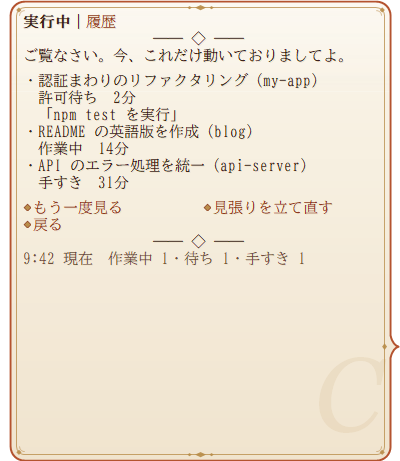
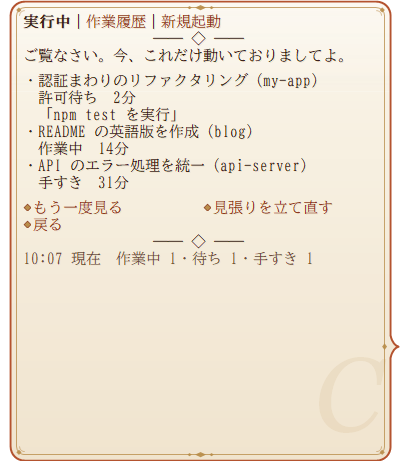
メニューの位置を固定し、「Claude Code は？」に新規起動の頁を足す
- メインメニューは「さっきの話は？」が無いとき右の段を空欄にして、ほかの項目の位置を動かさない
  （MENU.Grid に '-' で空欄を渡せるようにした）
- Claude Code まわりを「Claude Code は？」「功績録」「お茶とタイマー」の順に並べる
- 「Claude Code は？」の見出しを「実行中｜作業履歴｜新規起動」にする
- 新規起動の頁を足す。履歴の作業フォルダを新しい順に 6 件ずつ並べ、選ぶとそのフォルダを
  cwd にして claude を新しく起動する（EXECUTE の第 2 引数は空、第 3 引数が作業フォルダ）。
  選択肢には sessionId を載せて、開くときに作業フォルダを引き直す
- 作業履歴と新規起動の頁送りは、前後が無いときも空欄で場所を取り、戻るの位置を動かさない
- 紹介ページの文面と画像（実行中、作業履歴、新規起動、メニュー）を撮り直し、
  GHOST.md と design-system.md を直す

🌹 Polished by Claudia

Changed region(s): [[0.06, 0.5466, 0.78, 0.577], [0.21, 0.0304, 0.57, 0.0607]]

diff --git a/site/index.html b/site/index.html
@@ -326,15 +326,17 @@ footer { text-align: center; padding: 48px 16px 64px; font-size: 13px; color: va
 
     <div class="feature">
       <div class="text">
-        <h3>実行中のセッションと、続きの再開</h3>
+        <h3>実行中のセッションと、再開、新規起動</h3>
         <p>メニューの「Claude Code は？」を開けば、今動いているセッションを一覧にしてお見せしますわ。返事待ちを先に並べて、何を待たれているかまで添えますの。</p>
-        <p>「履歴」の頁には、これまでのセッションが題名と日付つきで並びますわ。選べば、そのセッションの作業フォルダで <code>claude -r</code> を開いて、続きから再開できましてよ。</p>
+        <p>「作業履歴」の頁には、これまでのセッションが題名と日付つきで並びますわ。選べば、そのセッションの作業フォルダで <code>claude -r</code> を開いて、続きから再開できましてよ。</p>
+        <p>「新規起動」の頁には、これまでに Claude Code を使った作業フォルダが、新しい順に並びますわ。選べば、そのフォルダを作業場所にして <code>claude</code> を新しく始められますの。</p>
         <p>最後のメッセージから 1 時間以内なら「温」、過ぎていれば「冷」の印をつけますわ。Claude Code のプロンプトキャッシュは 1 時間ですので、「冷」の再開は、会話を読み直すぶん少し重くなりますの。</p>
-        <p class="note">開けるのは、Claude Code が会話の記録を残しているセッション（既定でおよそ 30 日分）だけ。題名は記録の見出しから拾い、依頼の本文は読みませんわ。今動いているものには印をつけて、二重に開かないようにしてありますの。Claude Code を動かしていなくても、履歴は開けますわ。</p>
+        <p class="note">開けるのは、Claude Code が会話の記録を残しているセッション（既定でおよそ 30 日分）だけ。題名は記録の見出しから拾い、依頼の本文は読みませんわ。今動いているものには印をつけて、二重に開かないようにしてありますの。新規起動に並ぶのは、依頼の履歴（およそ 60 日分）に残るフォルダのうち、今もあるものだけ。Claude Code を動かしていなくても、作業履歴と新規起動は開けますわ。</p>
       </div>
       <div class="stage cols">
-        <div><img src="img/cc-run-0.png" width="400" height="461" alt="実行中の頁。実行中と履歴の見出し。許可待ちのセッションには待たれている中身も添えて、作業中、手すきのセッションが並ぶ。最下段に作業中・待ち・手すきの数"></div>
-        <div><img src="img/cc-hist-0.png" width="400" height="461" alt="履歴の頁。セッションの題名と最後のメッセージの日時、キャッシュが温かいか冷えたかの印、作業フォルダが 6 件並び、動いているセッションには（実行中）と添えられている。前後の頁へ送る選択肢と、履歴の件数"></div>
+        <div><img src="img/cc-run-0.png" width="400" height="461" alt="実行中の頁。実行中、作業履歴、新規起動の見出し。許可待ちのセッションには待たれている中身も添えて、作業中、手すきのセッションが並ぶ。最下段に作業中・待ち・手すきの数"></div>
+        <div><img src="img/cc-hist-0.png" width="400" height="461" alt="作業履歴の頁。セッションの題名と最後のメッセージの日時、キャッシュが温かいか冷えたかの印、作業フォルダが 6 件並び、動いているセッションには（実行中）と添えられている。次の頁と戻るの選択肢と、履歴の件数"></div>
+        <div><img src="img/cc-new-0.png" width="400" height="461" alt="新規起動の頁。これまでに使った作業フォルダの名前が、最後に使った日付と親のフォルダとともに新しい順に 6 件並ぶ。次の頁と戻るの選択肢と、フォルダの件数"></div>
       </div>
     </div>
 
@@ -435,10 +437,10 @@ footer { text-align: center; padding: 48px 16px 64px; font-size: 13px; color: va
     <div class="feature">
       <div class="text">
         <h3>メニュー</h3>
-        <p>わたくしをダブルクリックすればメニューですわ。話しかける、功績録と業務報告を見る、お茶を頼む、Claude Code の実行中と履歴を見る、設定を変える。最後の行には、今日の依頼の数と待ちの数が出ますの。</p>
+        <p>わたくしをダブルクリックすればメニューですわ。話しかける、功績録と業務報告を見る、お茶を頼む、Claude Code の実行中を見て続きを再開する、新しく起動する、設定を変える。最後の行には、今日の依頼の数と待ちの数が出ますの。「さっきの話は？」が出ても出なくても、項目の位置は変わりませんわ。</p>
       </div>
       <div class="stage">
-        <div class="talk"><img class="b" src="img/menu-0.png" width="400" height="206" alt="クローディア「また呼びましたの？今度は何ですの。」メニュー。何か話して、話しかける、ゴーストと話す、功績録と業務報告、お茶とタイマー、Claude Code は？、設定、なんでもない。最下段に今日の依頼の数"><img class="f" src="img/f7.png" width="140" height="140" alt=""></div>
+        <div class="talk"><img class="b" src="img/menu-0.png" width="400" height="206" alt="クローディア「また呼びましたの？今度は何ですの。」メニュー。何か話して、さっきの話は？、話しかける、ゴーストと話す、Claude Code は？、功績録と業務報告、お茶とタイマー、設定、なんでもない。最下段に今日の依頼の数"><img class="f" src="img/f7.png" width="140" height="140" alt=""></div>
       </div>
     </div>
 

diff --git a/GHOST.md b/GHOST.md
@@ -39,7 +39,7 @@
 | `yaya_etc.dic` | シェル変更、インストール、消滅（vanish）、ネットワーク更新、ヘッドライン、時刻合わせなどのイベント。PC の様子（バッテリー、デバイスの抜き差し、壁紙の変更、音楽の再生） |
 | `yaya_string.dic` | メニュー項目やおすすめサイトなどのリソース（`On_*`） |
 | `yaya_word.dic` | トーク中に埋め込む単語（`%(tea)` 紅茶、`%(sweets)` お菓子、`%(food)` 料理） |
-| `yaya_claudecode.dic` | Claude Code のセッションの見張り（`CC.*`）。`%USERPROFILE%\.claude\sessions\*.json` を `\![execute,filewatch]` で見張り（`OnClaudeCodeDir` / `OnClaudeCodeFile`）、返事待ちのベルと 5 分ごとのリマインダ、長考と完了、新しいセッション、会話の記録（`%USERPROFILE%\.claude\projects\...\<sessionId>.jsonl`）から拾ったセッションの題名（`ai-title`）での呼びかけ、長考が片付いたときの働きぶりの報告（`CC.TurnStats`。依頼を受けてから使ったツールと失敗の数）、休憩のすすめ（続けて 2 時間ごと）、通知領域のアイコンの切り替えを行う。見張りは `OnBoot` の `CC.Start` で立てる。メニュー「Claude Code は？」（`Menu_CLAUDECODE`。Claude Code を使っている PC では動いていなくても出る）は、上端の見出しで切り替える 2 頁で、「実行中」（`CC.PageRun`。動いていなければ空欄のひとこと）と「履歴」（`CC.PageHist`）がある。履歴は `history.jsonl` の末尾から sessionId ごとの最後の依頼を拾い（`CC.HistScan`。約 60 日まで）、会話の記録が残っているもの（Claude Code が約 30 日で片付けるので、履歴の大半は開けない）だけを新しい順に 6 件ずつ並べる。各件には、会話の記録の最後のメッセージの時刻（`CC.LineSec`。行の `timestamp`。ファイルの更新時刻は開いただけで変わるので使わない）と、そこから 1 時間以内かどうかの印（温／冷。プロンプトキャッシュの目安。`CC.HistFresh`）を添える。選ぶと `OnCCResume`（`CC.Resume`）が、作業フォルダを cwd にして `EXECUTE('claude', '-r "<sessionId>"', 作業フォルダ)` で続きを開く（**第 3 引数の作業フォルダは yaya.dll Tc604-1 以降**）。動いているセッションは印を付けて選べなくする。詳しい仕組みは先頭のコメントにある |
+| `yaya_claudecode.dic` | Claude Code のセッションの見張り（`CC.*`）。`%USERPROFILE%\.claude\sessions\*.json` を `\![execute,filewatch]` で見張り（`OnClaudeCodeDir` / `OnClaudeCodeFile`）、返事待ちのベルと 5 分ごとのリマインダ、長考と完了、新しいセッション、会話の記録（`%USERPROFILE%\.claude\projects\...\<sessionId>.jsonl`）から拾ったセッションの題名（`ai-title`）での呼びかけ、長考が片付いたときの働きぶりの報告（`CC.TurnStats`。依頼を受けてから使ったツールと失敗の数）、休憩のすすめ（続けて 2 時間ごと）、通知領域のアイコンの切り替えを行う。見張りは `OnBoot` の `CC.Start` で立てる。メニュー「Claude Code は？」（`Menu_CLAUDECODE`。Claude Code を使っている PC では動いていなくても出る）は、上端の見出しで切り替える 3 頁で、「実行中」（`CC.PageRun`。動いていなければ空欄のひとこと）、「作業履歴」（`CC.PageHist`）、「新規起動」（`CC.PageNew`）がある。履歴は `history.jsonl` の末尾から sessionId ごとの最後の依頼を拾い（`CC.HistScan`。約 60 日まで）、会話の記録が残っているもの（Claude Code が約 30 日で片付けるので、履歴の大半は開けない）だけを新しい順に 6 件ずつ並べる。各件には、会話の記録の最後のメッセージの時刻（`CC.LineSec`。行の `timestamp`。ファイルの更新時刻は開いただけで変わるので使わない）と、そこから 1 時間以内かどうかの印（温／冷。プロンプトキャッシュの目安。`CC.HistFresh`）を添える。選ぶと `OnCCResume`（`CC.Resume`）が、作業フォルダを cwd にして `EXECUTE('claude', '-r "<sessionId>"', 作業フォルダ)` で続きを開く（**第 3 引数の作業フォルダは yaya.dll Tc604-1 以降**）。動いているセッションは印を付けて選べなくする。「新規起動」は、同じ `history.jsonl` から作業フォルダを重ねずに最後に使った新しい順で 6 件ずつ並べ（`CC.DirList`。実在するものだけ。約 60 日分）、選ぶと `OnCCNew`（`CC.NewSession`）が、そのフォルダを cwd にして `EXECUTE('claude', '', 作業フォルダ)` で新しく始める。選択肢にはパスを載せず、そのフォルダで最後に依頼したセッションの sessionId を載せて、開くときに引き直す。詳しい仕組みは先頭のコメントにある |
 | `yaya_ccstats.dic` | Claude Code の功績録（`CCS.*`）。依頼の履歴 `%USERPROFILE%\.claude\history.jsonl`（時刻と作業フォルダだけを読み、本文は使わない）と、`yaya_claudecode.dic` の見張りから `CCS.Count` で数えた回数を合わせて、メニュー「功績録と業務報告」の功績録、終了時のひとこと（`OnClose`）、節目のお祝い（記念日、新しい称号、依頼の千件ごと。`CC.Minute` から）を出す。功績録は上端の見出しで切り替える 6 頁（報告・依頼・領地・見届け・称号・番外）で、メニューから開くと 1 頁目の業務報告（本日）を出す。業務報告（`CCS.PageReport`）は、本日・昨日・今週（月曜から）・先週・今月・先月・今年と、日付の入力欄で指定した期間（`OnCCSPeriod`、`OnInputCCSFrom` / `OnInputCCSTo`。`yaya_menu.dic`）を選べる。日は午前 4 時で区切る。期間の依頼は、そのたびに履歴を読み直して数える（`CCS.Span`。月の頭の位置を `ccshmpos` に覚えて読み飛ばす）。見届けた数は日ごとに `ccsdlog` に残し、`ccsdlogsince` より前の日の分は無い。番外の称号（`CCS.OddTitles`。時刻や日付、領地の名前、なでた・つついた回数など）は功績録の最後の頁に並べる。Claude Code が無い PC（`CCS.NoClaude`）では、功績録は頁の代わりに `CCS.PageNoClaude`（番外の称号があればそれだけ）を出す。履歴は読み終えた位置を覚えて増えた分だけ読む。AI グラフ（`On_getaistate`）も持ち、依頼・登城日・領地・返事待ち・大仕事・稼働時間の 6 軸を出す（本日の分は加算値）。数が何も無ければ空を返し、システム辞書の既定のグラフになる。背景は `ghost/master/ai0.png` と `ai0_dark.png`（`work/aigraph/make-aigraph.ps1` で作る）。詳しい仕組みは先頭のコメントにある |
 | `yaya_teatimer.dic` | お茶とタイマー（`TM.*`）。メインメニュー「お茶とタイマー」（`Menu_TIMER`）から、紅茶の砂時計と時間を指定した砂時計（同時に 6 本まで）、執務（ポモドーロ。集中・短い休憩・長い休憩の分数と本数は「執務の時間割」で変える）を立てる。締め切りは `OnSecondChange` の `TM.Check` で確かめ、話せるときに知らせる。集中している間は、自動のランダムトーク（`OnAiTalk`）、時報、功績録の節目のお祝いを出さず、執務の間は Claude Code の休憩のすすめも出さない。選択肢の引数は `OnChoiceSelectEx` で受ける（ID が `TM.` で始まるもの）。知らせの音は `ghost/master/tm_*.wav`（`cc_*.wav` と同じく Python で合成した WAV）。詳しい仕組みは先頭のコメントにある |
 | `yaya_homeurl.dic` | ネットワーク更新の URL（`On_homeurl`） |

diff --git a/docs/design-system.md b/docs/design-system.md
@@ -228,7 +228,7 @@
 - アンソニーの台詞の強調は藍 `52,86,168`。封蝋の色はお嬢様だけが使う。
 - 一つのトークで色を変えるのは 2 か所まで。
 - メインメニューと設定メニューは、選択肢を左右 2 段に並べ（`MENU.Grid`）、空いた行の最後に情報バーを置く。9 行のバルーンに収めるため。右の段に回る選択肢は半角 20 字まで。
-- 「Claude Code は？」の頁（`Menu_CLAUDECODE`）も同じ形にする。上端の見出し（`CC.Tabs`。実行中｜履歴。功績録の `CCS.Tabs` と同じ作りで、今の頁は太字、もう一方は選択肢）から、一覧、二人の掛け合い、選択肢、情報バーまで、全体を 1 組の `\_q` で囲み、`\w` の間を取らずに一度に出す（`CC.Quick`。功績録の頁も同じ。`\_q` の中でも `\w` のウェイトは実行されるので、外す必要がある。見出しで頁を切り替えるときの待ちをなくすため。表情は一度に流れるので、最後に指定したものが残る）。実行中の頁は、返事待ちを先に並べる。大きいバルーン（24 行）に収まるよう、一覧は 14 行までにして、残りは「ほかに N 件」にまとめる（`CC.ListBody`）。履歴の頁（`CC.PageHist`）は 1 件を 2 行（題名、日時とキャッシュの印「温／冷」と作業フォルダ。色ではなく文字で示す）で書き、6 件ずつ頁送りする。動いているセッションは選択肢にせず、「（実行中）」と添える。
+- 「Claude Code は？」の頁（`Menu_CLAUDECODE`）も同じ形にする。上端の見出し（`CC.Tabs`。実行中｜作業履歴｜新規起動。功績録の `CCS.Tabs` と同じ作りで、今の頁は太字、もう一方は選択肢）から、一覧、二人の掛け合い、選択肢、情報バーまで、全体を 1 組の `\_q` で囲み、`\w` の間を取らずに一度に出す（`CC.Quick`。功績録の頁も同じ。`\_q` の中でも `\w` のウェイトは実行されるので、外す必要がある。見出しで頁を切り替えるときの待ちをなくすため。表情は一度に流れるので、最後に指定したものが残る）。実行中の頁は、返事待ちを先に並べる。大きいバルーン（24 行）に収まるよう、一覧は 14 行までにして、残りは「ほかに N 件」にまとめる（`CC.ListBody`）。履歴の頁（`CC.PageHist`）は 1 件を 2 行（題名、日時とキャッシュの印「温／冷」と作業フォルダ。色ではなく文字で示す）で書き、6 件ずつ頁送りする。動いているセッションは選択肢にせず、「（実行中）」と添える。新規起動の頁（`CC.PageNew`）も同じ 2 行 6 件の形で、1 行目はフォルダの名前、2 行目は日付と親のパスにする。前の頁や次の頁、メインメニューの「さっきの話は？」のように、出たり出なかったりする選択肢は、`MENU.Grid` に `-` を渡して空欄で場所を取り、ほかの項目の位置を動かさない。
 
 ### オーナードローメニュー
 
